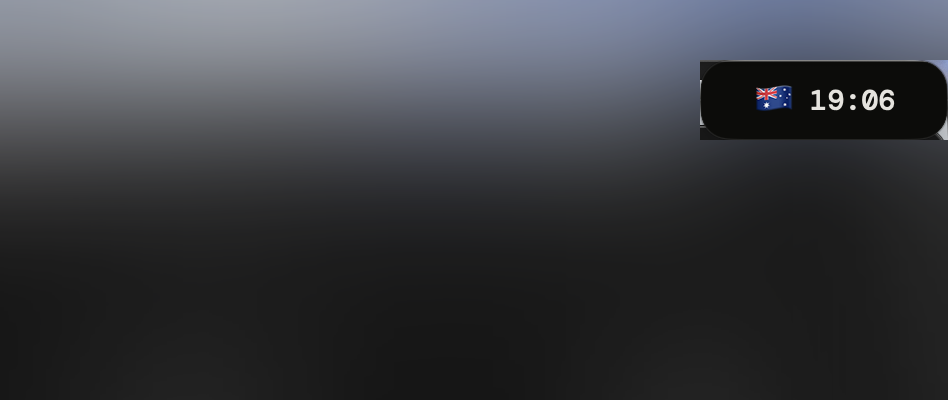
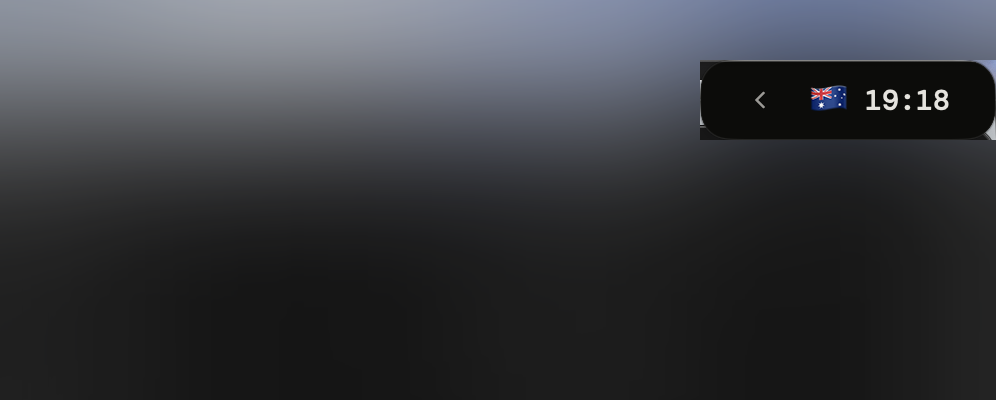
Mac strip: inward chevron to collapse, outward chevron on the one-time pill
The strip gets a left chevron pointing at the times that collapses it to
the one-time state, mirroring the down chevron that opens the panel. The
one-time pill gets an outward chevron that expands back to the strip.
Same drawing, size and colour; both pills 24 points wider to fit.

Changed region(s): [[0.7954, 0.21, 0.9789, 0.3], [0.7036, 0.15, 0.7648, 0.36]]

diff --git a/mac/WorldClock.swift b/mac/WorldClock.swift
@@ -8,12 +8,14 @@
 //
 // Three states, smallest last:
 //   panel   the full compact page: cities, projector, typed time
-//   strip   one row, 40 points tall: home plus the top two cities as flag and time, and a chevron
-//   single  one flag and time; scroll over it to step through the other cities
+//   strip   one row, 40 points tall: a chevron in, home plus the top two cities as flag and time,
+//           a chevron down
+//   single  a chevron out, one flag and time; scroll over it to step through the other cities
 // The yellow button or a title-bar double-click collapses the panel to the strip. On the strip,
-// the chevron opens the panel and the times go to the single time; on the single time a click goes
-// back to the strip. Strip and single tuck against the nearer side of their screen. They are
-// drawn by a script this app injects into the page, so index.html stays exactly the web version.
+// the down chevron opens the panel and the inward chevron (or the times) goes to the single time;
+// on the single time the outward chevron (or a click) goes back to the strip. Strip and single
+// tuck against the nearer side of their screen. They are drawn by a script this app injects into
+// the page, so index.html stays exactly the web version.
 
 import Cocoa
 import WebKit
@@ -28,7 +30,7 @@ let liveURL = "https://www.estebangz.com/world-clock/?mini=1"
 //   defaults delete com.estebangz.worldclock url      # back to the live site
 let pageURL = URL(string: UserDefaults.standard.string(forKey: "url") ?? liveURL)!
 let panelSize = NSSize(width: 340, height: 560)
-let sizes: [Mode: NSSize] = [.strip: NSSize(width: 320, height: 40), .single: NSSize(width: 124, height: 40)]
+let sizes: [Mode: NSSize] = [.strip: NSSize(width: 344, height: 40), .single: NSSize(width: 148, height: 40)]
 
 // Runs inside the page once it has loaded. Draws the strip and the single time from the page's own
 // data (home, cities and fmtHMS are globals in index.html), redrawing every second.
@@ -44,13 +46,16 @@ let stripScript = """
       background:var(--bg);white-space:nowrap;-webkit-user-select:none}
     #wc-strip span{display:flex;align-items:center;gap:6px}
     #wc-strip b{font-weight:400;font-size:16px;line-height:1}
-    #wc-strip .wc-go{color:var(--mu);margin:0 -2px 0 2px}`;
+    #wc-strip .wc-go{color:var(--mu);flex:none}`;
   document.head.appendChild(css);
   const strip = document.createElement('div');
   strip.id = 'wc-strip';
   document.body.appendChild(strip);
-  const chevron = '<svg class="wc-go" width="14" height="14" viewBox="0 0 24 24" fill="none" stroke="currentColor" '
-    + 'stroke-width="2.2" stroke-linecap="round" stroke-linejoin="round"><polyline points="6 9 12 15 18 9"/></svg>';
+  // Three chevrons, one drawing: inward (collapse the strip to one time), outward (one time back
+  // to the strip), down (open the panel). The native overlay turns the clicks into state changes.
+  const chevron = pts => '<svg class="wc-go" width="14" height="14" viewBox="0 0 24 24" fill="none" stroke="currentColor" '
+    + `stroke-width="2.2" stroke-linecap="round" stroke-linejoin="round"><polyline points="${pts}"/></svg>`;
+  const inward = chevron('9 6 15 12 9 18'), outward = chevron('15 6 9 12 15 18'), down = chevron('6 9 12 15 18 9');
   let mode = 0, index = 0;
   const draw = () => {
     document.body.classList.toggle('wc-compact', mode > 0);
@@ -58,8 +63,9 @@ let stripScript = """
     const all = [{f: home.flag, t: home.tz}].concat(cities.map(c => ({f: c.f, t: c.t})));
     const shown = mode === 1 ? all.slice(0, 3) : [all[((index % all.length) + all.length) % all.length]];
     const now = new Date();
-    strip.innerHTML = shown.map(i => `<span><b>${i.f}</b>${fmtHMS(now, i.t).slice(0, 5)}</span>`).join('')
-      + (mode === 1 ? chevron : '');
+    strip.innerHTML = (mode === 1 ? inward : outward)
+      + shown.map(i => `<span><b>${i.f}</b>${fmtHMS(now, i.t).slice(0, 5)}</span>`).join('')
+      + (mode === 1 ? down : '');
   };
   setInterval(draw, 1000);
   window.wcState = (m, i) => { mode = m; index = i; draw(); };

diff --git a/mac/README.md b/mac/README.md
@@ -9,13 +9,14 @@ Three states, smallest last:
 
 - **Panel.** The full compact page, 340 by 560 by default, resizable.
 - **Strip.** One row, 40 points tall: your home time and the top two cities, flag and time, with
-  a chevron at the right end. It tucks against the nearer side of whichever screen it is on.
-- **One time.** A single flag and time, your home city to start. Scroll over it (trackpad or
-  mouse wheel) to step through your other cities, one per swipe or notch.
+  a chevron at each end. It tucks against the nearer side of whichever screen it is on.
+- **One time.** A single flag and time, your home city to start, with one chevron. Scroll over
+  it (trackpad or mouse wheel) to step through your other cities, one per swipe or notch.
 
 Moving between them: the yellow button (or a double-click on the title bar) collapses the panel to
-the strip. On the strip, the chevron opens the panel and a click on the times goes to the one
-time. On the one time, a click goes back to the strip. Drag either to move it. The red button
+the strip. On the strip, the down chevron at the right opens the panel; the inward chevron at the
+left, or a click on the times, goes to the one time. On the one time, its chevron, or a click,
+goes back to the strip. Drag either to move it. The red button
 hides the panel; the clock in the menu bar brings it back, and its right-click menu can jump to
 any of the three states. Quit is in that menu too.
 
